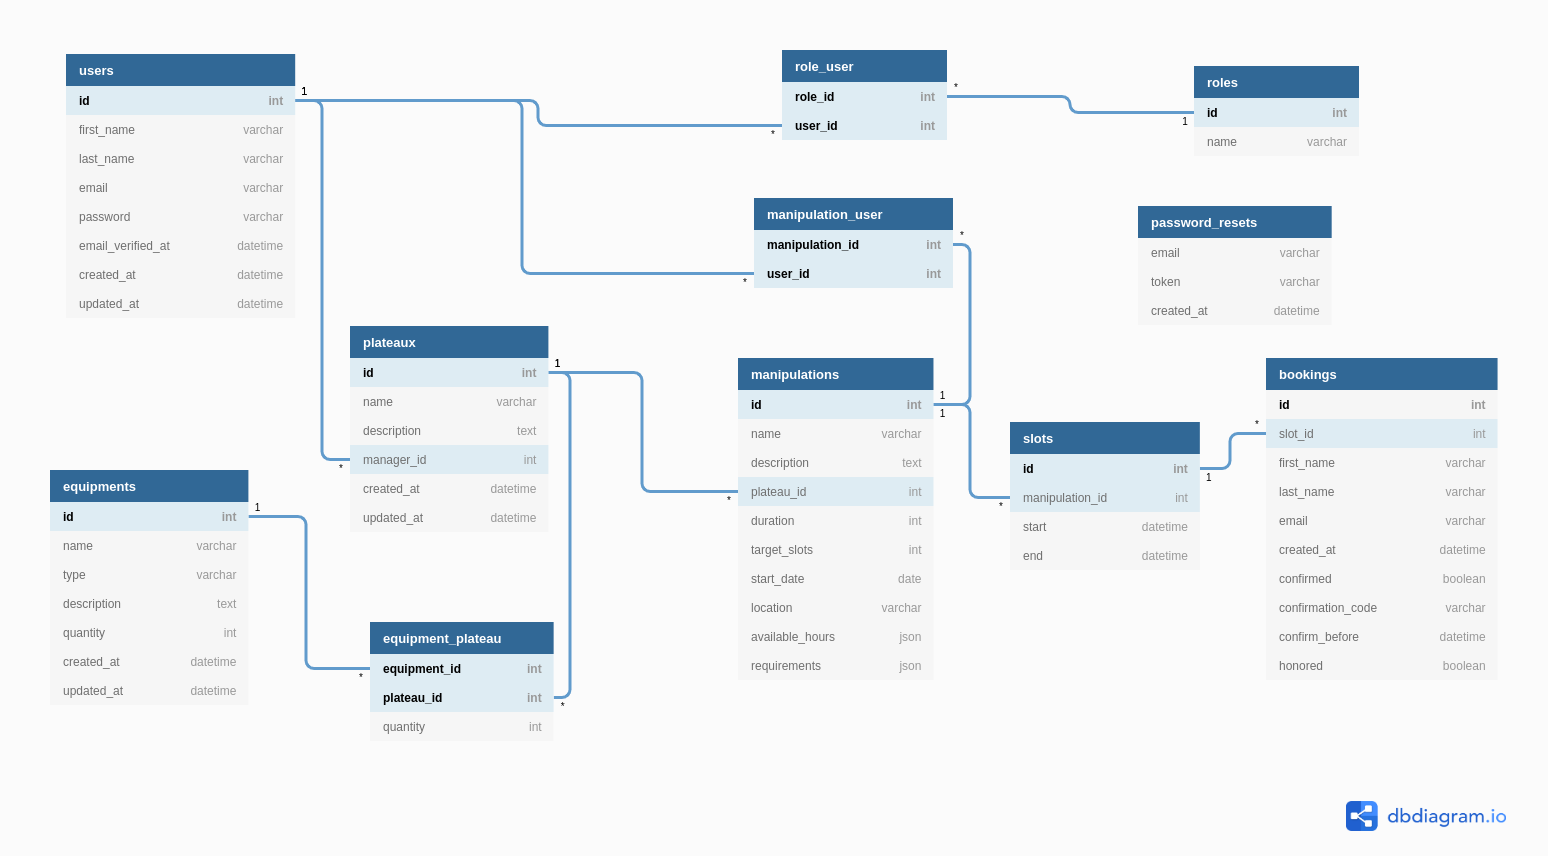
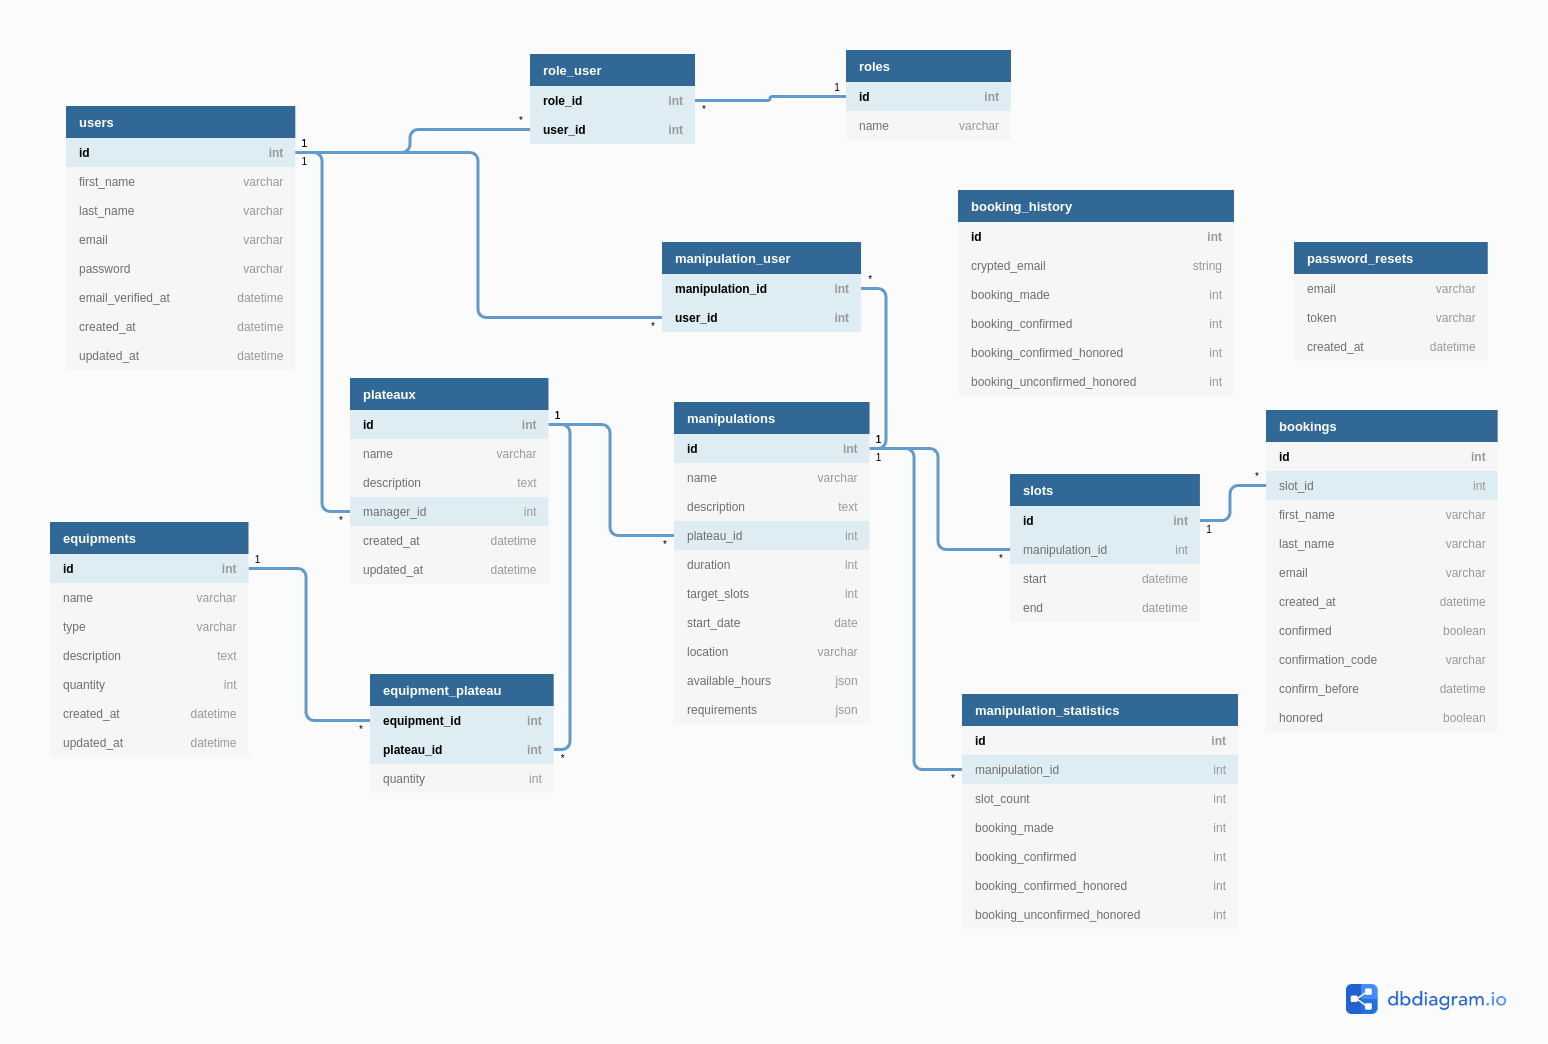
Adds migration and models for booking history and manipulation statistics

diff --git a/database/migrations/2020_07_20_182408_create_bookings_table.php b/database/migrations/2020_07_20_182408_create_bookings_table.php
@@ -28,7 +28,13 @@ class CreateBookingsTable extends Migration
             $table->foreign('slot_id')->references('id')->on('slots')->onDelete('cascade');
         });
 
-        Schema::table('manipulations', function (Blueprint $table) {
+        Schema::table('slots', function (Blueprint $table) {
+            $table->dropColumn('subject_first_name');
+            $table->dropColumn('subject_last_name');
+            $table->dropColumn('subject_email');
+            $table->dropColumn('subject_confirmed');
+            $table->dropColumn('subject_confirmation_code');
+            $table->dropColumn('subject_confirm_before');
         });
     }
 
@@ -39,9 +45,13 @@ class CreateBookingsTable extends Migration
      */
     public function down()
     {
-        Schema::table('manipulations', function (Blueprint $table) {
-            $table->dropForeign('manipulations_booking_id_foreign');
-            $table->dropColumn('booking_id');
+        Schema::table('slots', function (Blueprint $table) {
+            $table->string('subject_first_name');
+            $table->string('subject_last_name');
+            $table->string('subject_email');
+            $table->boolean('subject_confirmed');
+            $table->string('subject_confirmation_code');
+            $table->dateTime('subject_confirm_before');
         });
 
         Schema::dropIfExists('bookings');

diff --git a/database/migrations/2020_08_05_100908_create_manipulation_statistics_table.php b/database/migrations/2020_08_05_100908_create_manipulation_statistics_table.php
@@ -1,0 +1,38 @@
+<?php
+
+use Illuminate\Database\Migrations\Migration;
+use Illuminate\Database\Schema\Blueprint;
+use Illuminate\Support\Facades\Schema;
+
+class CreateManipulationStatisticsTable extends Migration
+{
+    /**
+     * Run the migrations.
+     *
+     * @return void
+     */
+    public function up()
+    {
+        Schema::create('manipulation_statistics', function (Blueprint $table) {
+            $table->bigIncrements('id');
+            $table->bigInteger('manipulation_id')->unsigned();
+            $table->unsignedInteger('slot_count');
+            $table->unsignedInteger('booking_made');
+            $table->unsignedInteger('booking_confirmed');
+            $table->unsignedInteger('booking_confirmed_honored');
+            $table->unsignedInteger('booking_unconfirmed_honored');
+
+            $table->foreign('manipulation_id')->references('id')->on('manipulations')->onDelete('cascade');
+        });
+    }
+
+    /**
+     * Reverse the migrations.
+     *
+     * @return void
+     */
+    public function down()
+    {
+        Schema::dropIfExists('manipulation_statistics');
+    }
+}

diff --git a/database/migrations/2020_08_05_100941_create_booking_history_table.php b/database/migrations/2020_08_05_100941_create_booking_history_table.php
@@ -1,0 +1,35 @@
+<?php
+
+use Illuminate\Database\Migrations\Migration;
+use Illuminate\Database\Schema\Blueprint;
+use Illuminate\Support\Facades\Schema;
+
+class CreateBookingHistoryTable extends Migration
+{
+    /**
+     * Run the migrations.
+     *
+     * @return void
+     */
+    public function up()
+    {
+        Schema::create('booking_history', function (Blueprint $table) {
+            $table->bigIncrements('id');
+            $table->string('crypted_email')->unique();
+            $table->unsignedInteger('booking_made');
+            $table->unsignedInteger('booking_confirmed');
+            $table->unsignedInteger('booking_confirmed_honored');
+            $table->unsignedInteger('booking_unconfirmed_honored');
+        });
+    }
+
+    /**
+     * Reverse the migrations.
+     *
+     * @return void
+     */
+    public function down()
+    {
+        Schema::dropIfExists('booking_history');
+    }
+}

diff --git a/app/BookingHistory.php b/app/BookingHistory.php
@@ -1,0 +1,30 @@
+<?php
+
+namespace App;
+
+use Illuminate\Database\Eloquent\Model;
+use Illuminate\Support\Facades\Crypt;
+use Illuminate\Support\Facades\Hash;
+
+class BookingHistory extends Model
+{
+    /**
+     * The table name (override plural form)
+     *
+     * @var string
+     */
+    public $table = "booking_history";
+
+    /**
+     * Indicates if the model should be timestamped.
+     *
+     * @var bool
+     */
+    public $timestamps = false;
+
+    public static function findByEmail(string $email): ?BookingHistory
+    {
+        $encrypted_email = Crypt::encrypt($email);
+        return parent::where('crypted_email', $encrypted_email)->first();
+    }
+}

diff --git a/app/ManipulationStatistics.php b/app/ManipulationStatistics.php
@@ -1,0 +1,27 @@
+<?php
+
+namespace App;
+
+use Illuminate\Database\Eloquent\Model;
+
+class ManipulationStatistics extends Model
+{
+    /**
+     * The table name (override plural form)
+     *
+     * @var string
+     */
+    public $table = "manipulation_statistics";
+
+    /**
+     * Indicates if the model should be timestamped.
+     *
+     * @var bool
+     */
+    public $timestamps = false;
+
+    public function manipulation()
+    {
+        return $this->belongsTo('App\Manipulation', 'manipulation_id');
+    }
+}

diff --git a/app/Manipulation.php b/app/Manipulation.php
@@ -63,6 +63,11 @@ class Manipulation extends Model
         return $this->slots()->doesntHave('booking');
     }
 
+    public function statistics()
+    {
+        return $this->hasOne('App\ManipulationStatistics');
+    }
+
     /**
      * Scope a query to only include manipulations with available slots.
      *
